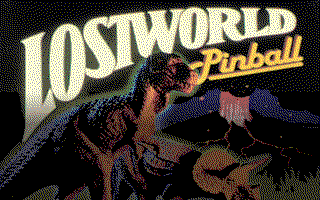
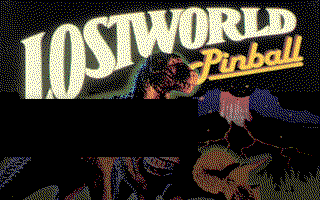
Give the menu options a black box to sit on
The menu draws four option lines at rows 99, 115, 131 and 147, each nine
rows tall and spanning columns 6..191, over a dithered photograph.  They
now have a flat black box behind them, painted into the image rather than
drawn at run time: black is a reserved palette entry so it survives the
dither exactly, and the loader has one less thing to do.

The box is 58 rows, not the 48 first suggested.  Four lines starting at
row 99 reach row 155, and 48 rows stop at 146 -- far enough to leave the
last option, Music, hanging off the bottom of the box it was meant to sit
on.  Measured against the running game before baking it in.

The prompt down at row 184 is outside the box and still relies on the
fade behind it, which is why the fade stays.

Flat black also compresses, which this image badly needs: 15823 bytes
down to 13124, and IMAGES.DAT from 22432 to 19377.  That is roughly two
and a half seconds less black screen before the menu appears.

diff --git a/scripts/gen-assets.py b/scripts/gen-assets.py
@@ -1240,12 +1240,18 @@ def fade_below(img, start, end, floor, black=40):
             px[x, y] = (0, 0, 0) if max(r, g, b) < black else (r, g, b)
 
 
-def box_art(w, h, top_trim=0, fade=None):
+def box_art(w, h, top_trim=0, fade=None, black_box=None):
     """The cover, cropped to what will look undistorted at w x h, and reduced.
 
     top_trim is how much of the source to lose off the top; the rest of the
     crop comes off the bottom, which on this cover is the least interesting
     part of the picture.
+
+    black_box is (x, y, w, h) painted flat black before the reduction, which
+    is how the menu gets a plain backdrop to draw its options over.  Doing it
+    here rather than at run time costs nothing: black is a reserved palette
+    entry, so it survives the dither exactly, and the loader has one less thing
+    to draw.
     """
     src = Image.open(BOX_ART).convert("RGB")
     keep = int(round(src.width * PIXEL_TALL * h / w))
@@ -1254,16 +1260,26 @@ def box_art(w, h, top_trim=0, fade=None):
     ).resize((w, h), Image.LANCZOS)
     if fade:
         fade_below(img, *fade)
+    if black_box:
+        bx, by, bw, bh = black_box
+        ImageDraw.Draw(img).rectangle((bx, by, bx + bw - 1, by + bh - 1),
+                                      fill=(0, 0, 0))
     return coco_reduce(img)
 
 
 def write_images():
     os.makedirs(IMAGE_DIR, exist_ok=True)
 
-    # The menu draws its four option lines and its prompt over rows 99 to 192
-    # of the backdrop (engine/menu.asm), so the lower half is faded down far
-    # enough for that text to read over it.
-    box_art(SCREEN_W, SCREEN_H, top_trim=6, fade=(92, 124, 0.45)).save(
+    # The menu draws four option lines at rows 99, 115, 131 and 147, each nine
+    # rows tall and spanning columns 6..191 (engine/menu.asm draws them at
+    # x = 3 bytes), then a prompt down at row 184.  The options get a flat
+    # black box to sit on; the prompt is on its own, which is why the lower
+    # half of the picture is still faded down behind it.
+    #
+    # 58 rows, not 48: four lines starting at 99 reach row 155, and a 48-row
+    # box would leave the last option hanging off the bottom of it.
+    box_art(SCREEN_W, SCREEN_H, top_trim=6, fade=(92, 124, 0.45),
+            black_box=(6, 99, 192, 58)).save(
         os.path.join(IMAGE_DIR, "00-mainmenu.png")
     )
 
